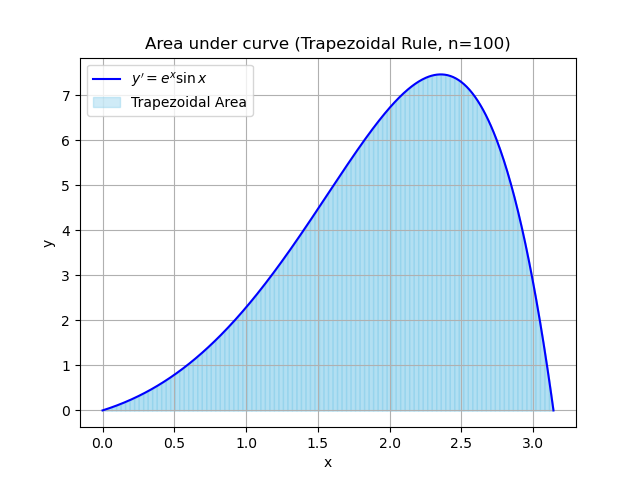
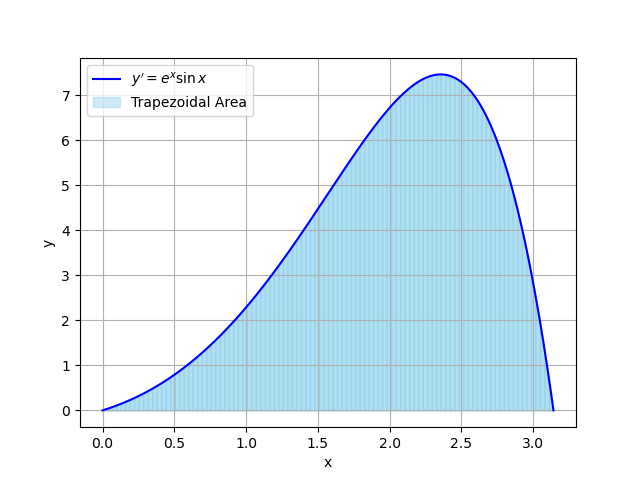
EE1003

Changed region(s): [[0.2188, 0.0625, 0.6875, 0.125], [0.7188, 0.0625, 0.8125, 0.125]]

diff --git a/Q3/codes/Q3.py b/Q3/codes/Q3.py
@@ -38,7 +38,6 @@ for i in range(n):
 plt.fill_between(x, y, color="skyblue", alpha=0.4, label="Trapezoidal Area")
 
 # Labels and legend
-plt.title(f"Area under curve (Trapezoidal Rule, n={n})")
 plt.xlabel("x")
 plt.ylabel("y")
 plt.legend()
